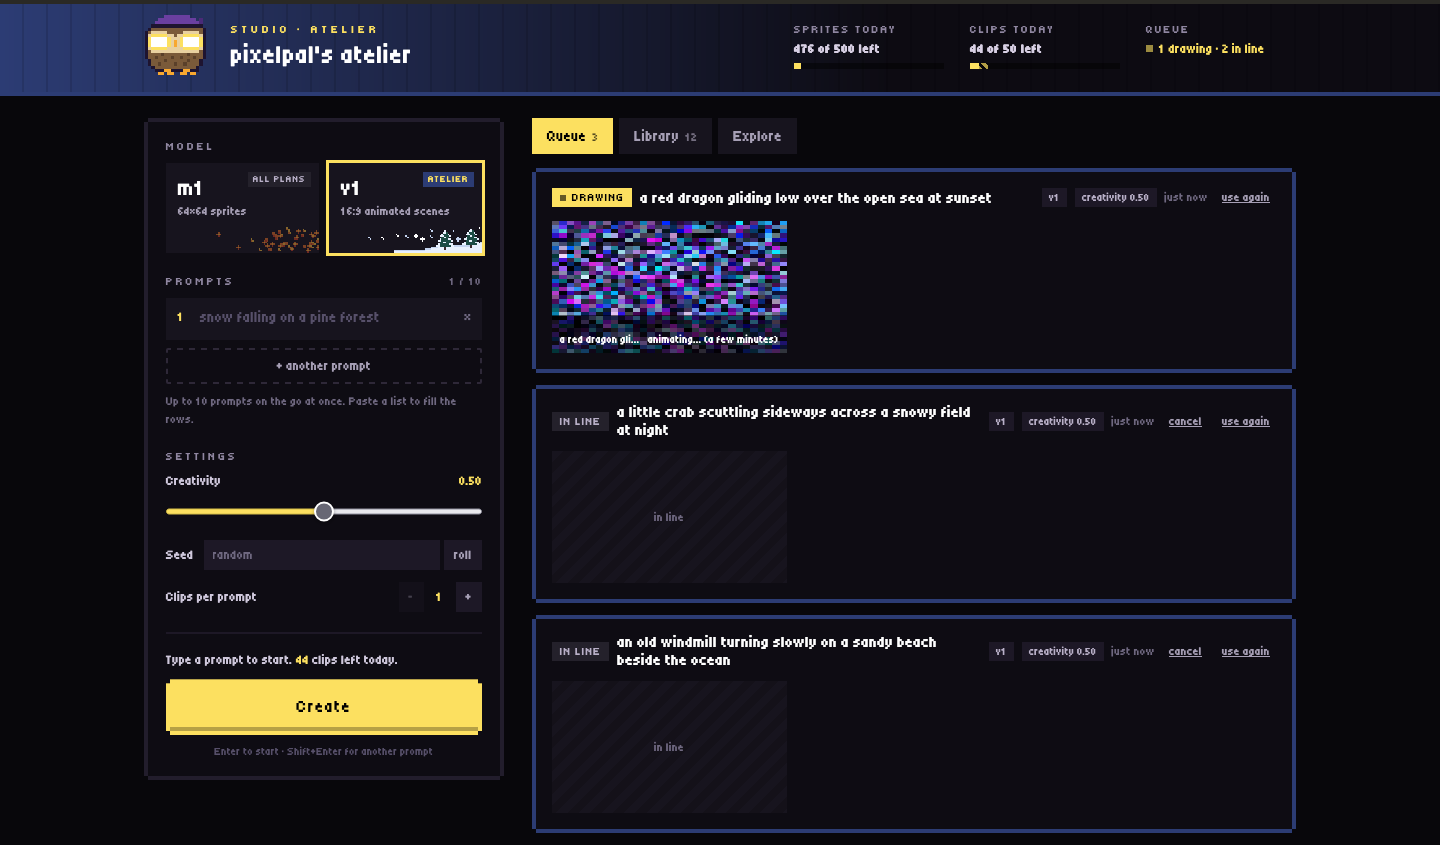
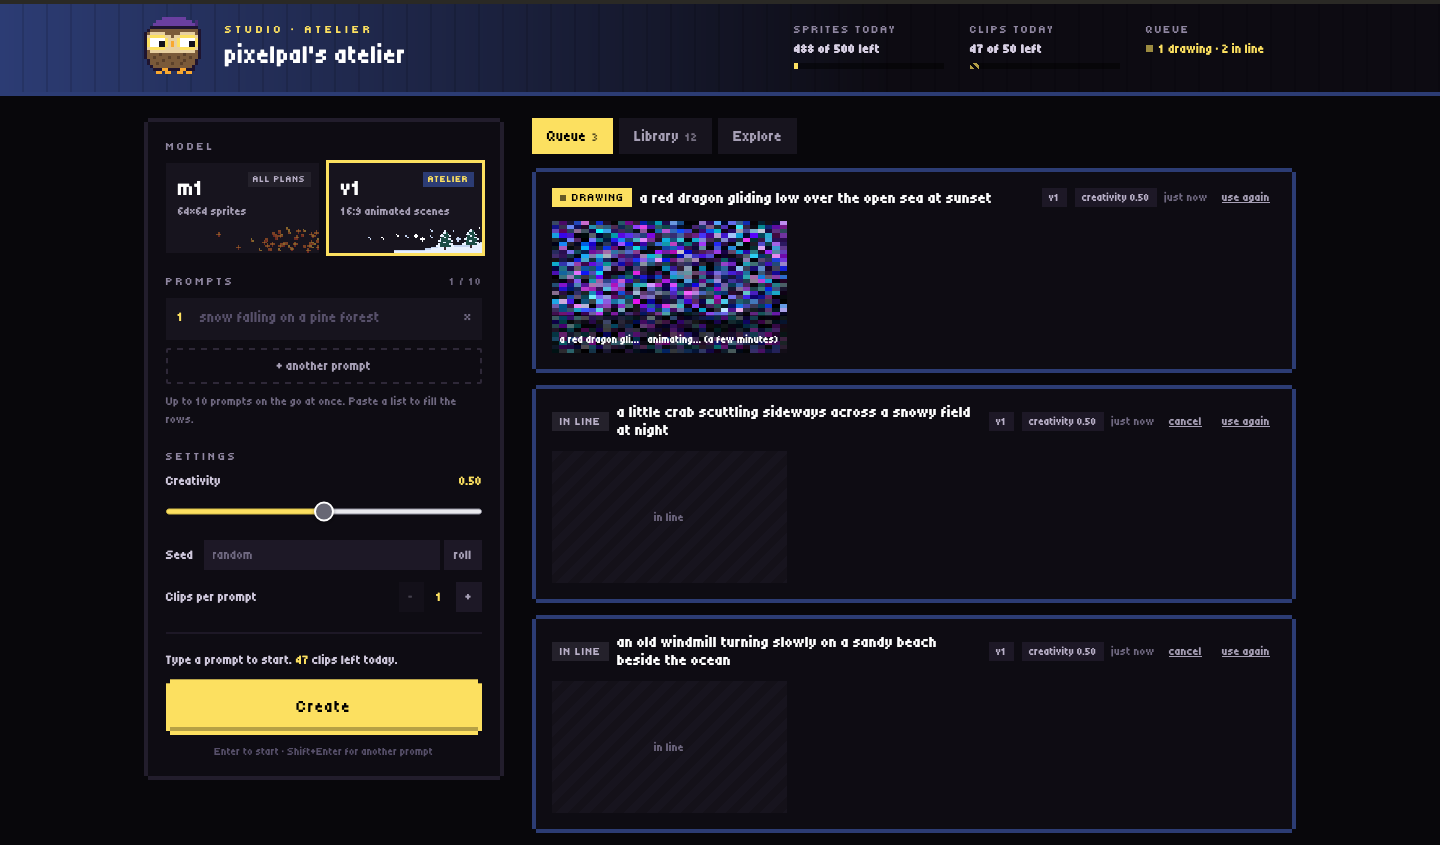
Fixed horrifying issue lmao

Changed region(s): [[0.375, 0.2462, 0.5625, 0.4308], [0.0938, 0.0, 0.2812, 0.0923]]

diff --git a/studio/index.html b/studio/index.html
@@ -186,7 +186,7 @@
   .ws-head::after { content: ""; position: absolute; inset: 0; pointer-events: none; opacity: .18;
                     background: repeating-linear-gradient(90deg, transparent 0 22px, rgba(0,0,0,.6) 22px 24px); }
   .ws-head .wrap { position: relative; z-index: 1; display: flex; align-items: center; gap: 18px; min-height: 92px; flex-wrap: wrap; padding-top: 10px; padding-bottom: 10px; }
-  .ws-mascot { width: 69px; height: 60px; flex: none; background: no-repeat center bottom / contain; image-rendering: pixelated; animation: ws-bob 2.4s steps(2) infinite; }
+  .ws-mascot { position: relative; width: 69px; height: 60px; flex: none; animation: ws-bob 2.4s steps(2) infinite; }
   @keyframes ws-bob { 50% { transform: translateY(-3px); } }
   .ws-title small { display: block; font-size: 11px; letter-spacing: 4px; color: var(--pro); margin-bottom: 4px; }
   .ws-title b { font-weight: normal; font-size: 26px; }
@@ -280,7 +280,7 @@
   .job .tile.pending .info { font-size: 11px; }
   .ws-empty { text-align: center; color: #8f86a0; padding: 60px 20px; }
   .ws-empty b { display: block; color: #fff; font-weight: normal; font-size: 22px; margin: 14px 0 8px; }
-  .ws-empty .ws-mascot { margin: 0 auto; width: 115px; height: 100px; }
+  .ws-empty .ws-mascot { margin: 0 auto; width: 105px; height: 95px; }
   #ws-lib .grid { grid-template-columns: repeat(auto-fill, minmax(140px, 1fr)); }
 
   @media (max-width: 1000px) {
@@ -358,7 +358,7 @@
 <div class="ws-app" id="ws">
   <header class="ws-head">
     <div class="wrap">
-      <div class="ws-mascot" id="ws-mascot" role="img" aria-label="Your plan's mascot"></div>
+      <div class="ws-mascot" id="ws-mascot"></div>
       <div class="ws-title"><small id="ws-plan">STUDIO</small><b id="ws-hi">Your studio</b></div>
       <div class="ws-meters">
         <div class="wm" id="wm-img"><span>SPRITES TODAY</span><b>-</b><div class="mbar"><i class="held"></i><i class="used"></i></div></div>
@@ -670,7 +670,7 @@
     pro = u.features;
     tier = (u.profile?.badges || []).includes("Developer") ? "dev" : u.plan;
     document.body.classList.add("pro", "ws", tier);
-    document.querySelectorAll(".ws-mascot").forEach(m => m.style.backgroundImage = `url(../assets/scenes/${MASCOT[tier] || "mascot-free"}.png)`);
+    mascotInto($("#ws-mascot"), 3);
     $("#ws-plan").textContent = `STUDIO · ${TIERS[tier] || "PRO"}`;
     $("#ws-hi").textContent = `${me.username}'s ${HI[tier] || "studio"}`;
     $("#ws-lib").append($("#grid"), $("#more"));            // the library and the gallery reuse the classic grid
@@ -826,11 +826,23 @@
   }
 
   // ---- the queue panel
+  // the plan's mascot as a critter (its pupils follow the cursor, it talks when clicked), drawn P px per pixel
+  const extras = Kit.json("../assets/scenes/extras.json");
+  function mascotInto(box, P) {
+    extras.then(x => {
+      const a = x[MASCOT[tier]] || x["mascot-free"];
+      if (!a) return;
+      box.innerHTML = ""; box.style.width = a.w * P + "px"; box.style.height = a.h * P + "px";
+      Kit.critter(a, box, { left: "0px", bottom: "0px", P });
+    });
+  }
   function emptyQueue() {
-    const box = $("#ws-jobs"), none = !box.querySelector(".job");
-    box.querySelector(".ws-empty")?.remove();
-    if (none) box.insertAdjacentHTML("afterbegin", `<div class="ws-empty"><div class="ws-mascot" style="background-image:url(../assets/scenes/${MASCOT[tier] || "mascot-free"}.png)"></div>
+    const box = $("#ws-jobs"), none = !box.querySelector(".job"), shown = box.querySelector(".ws-empty");
+    if (!none) return shown?.remove();
+    if (shown) return;
+    box.insertAdjacentHTML("afterbegin", `<div class="ws-empty"><div class="ws-mascot"></div>
       <b>Nothing in the queue.</b>Write a prompt on the left${pro.queue_max > 1 ? " (or a few)" : ""} and press ${pro.queue_max > 1 ? "Queue" : "Create"}. Finished work lands in your Library.</div>`);
+    mascotInto(box.querySelector(".ws-empty .ws-mascot"), 5);
   }
   const LABEL = { queued: "IN LINE", drawing: "DRAWING", done: "DONE", failed: "DIDN'T DRAW", cancelled: "CANCELLED" };
   function renderJob(j) {

diff --git a/blog/a-new-studio/index.html b/blog/a-new-studio/index.html
@@ -66,9 +66,9 @@
     .stats { grid-template-columns: repeat(2, 1fr); } .reel { grid-template-columns: 1fr; } }
   @media (max-width: 640px) { .clips { grid-template-columns: 1fr 1fr; } }
   .shot { margin: 34px 0 10px; }
-  .shot img { width: 100%; display: block; box-shadow: 0 0 0 4px #000, 0 0 0 8px #2a2925; }
+  .shot img { width: 100%; height: auto; display: block; box-shadow: 0 0 0 4px #000, 0 0 0 8px #2a2925; }
   .hero-shot { max-width: 1100px; margin: 50px auto 0; padding: 0 24px; }
-  .hero-shot img { width: 100%; display: block; box-shadow: 0 0 0 4px #000, 0 0 0 8px var(--yellow); }
+  .hero-shot img { width: 100%; height: auto; display: block; box-shadow: 0 0 0 4px #000, 0 0 0 8px var(--yellow); }
   .tiers2 { display: grid; grid-template-columns: repeat(3, 1fr); gap: 14px; margin: 30px 0; }
   .tiers2 div { background: var(--panel); padding: 16px; margin: var(--u); --c: #2e2838; font-size: 14px; line-height: 1.5; color: var(--dim); }
   .tiers2 .artisan { --c: #6b3a1c; } .tiers2 .atelier { --c: #2c3c74; }
